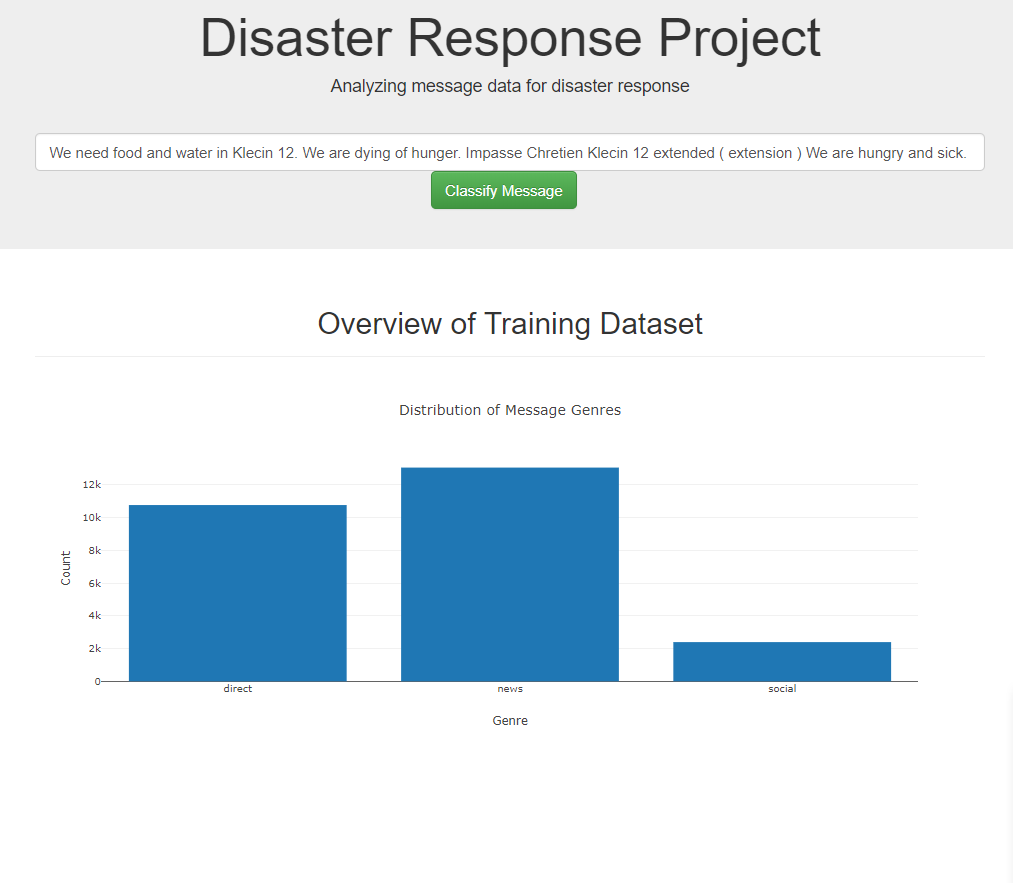
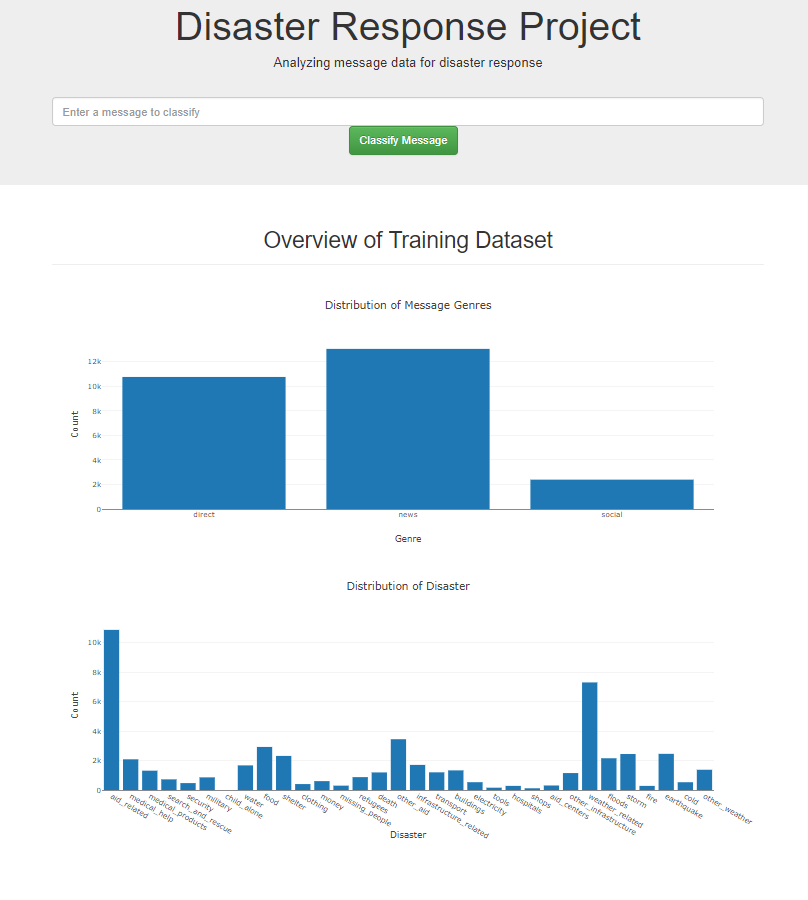
Add one more visualization

diff --git a/app/run.py b/app/run.py
@@ -43,6 +43,9 @@ def index():
     genre_counts = df.groupby('genre').count()['message']
     genre_names = list(genre_counts.index)
 
+    disaster = list(df.columns[7:-1])
+    disaster_counts = df[disaster].sum()
+
     # create visuals
     # TODO: Below is an example - modify to create your own visuals
     graphs = [
@@ -61,6 +64,24 @@ def index():
                 },
                 'xaxis': {
                     'title': "Genre"
+                }
+            }
+        },
+        {
+            'data': [
+                Bar(
+                    x=disaster,
+                    y=disaster_counts
+                )
+            ],
+
+            'layout': {
+                'title': 'Distribution of Disaster',
+                'yaxis': {
+                    'title': "Count"
+                },
+                'xaxis': {
+                    'title': "Disaster"
                 }
             }
         }
